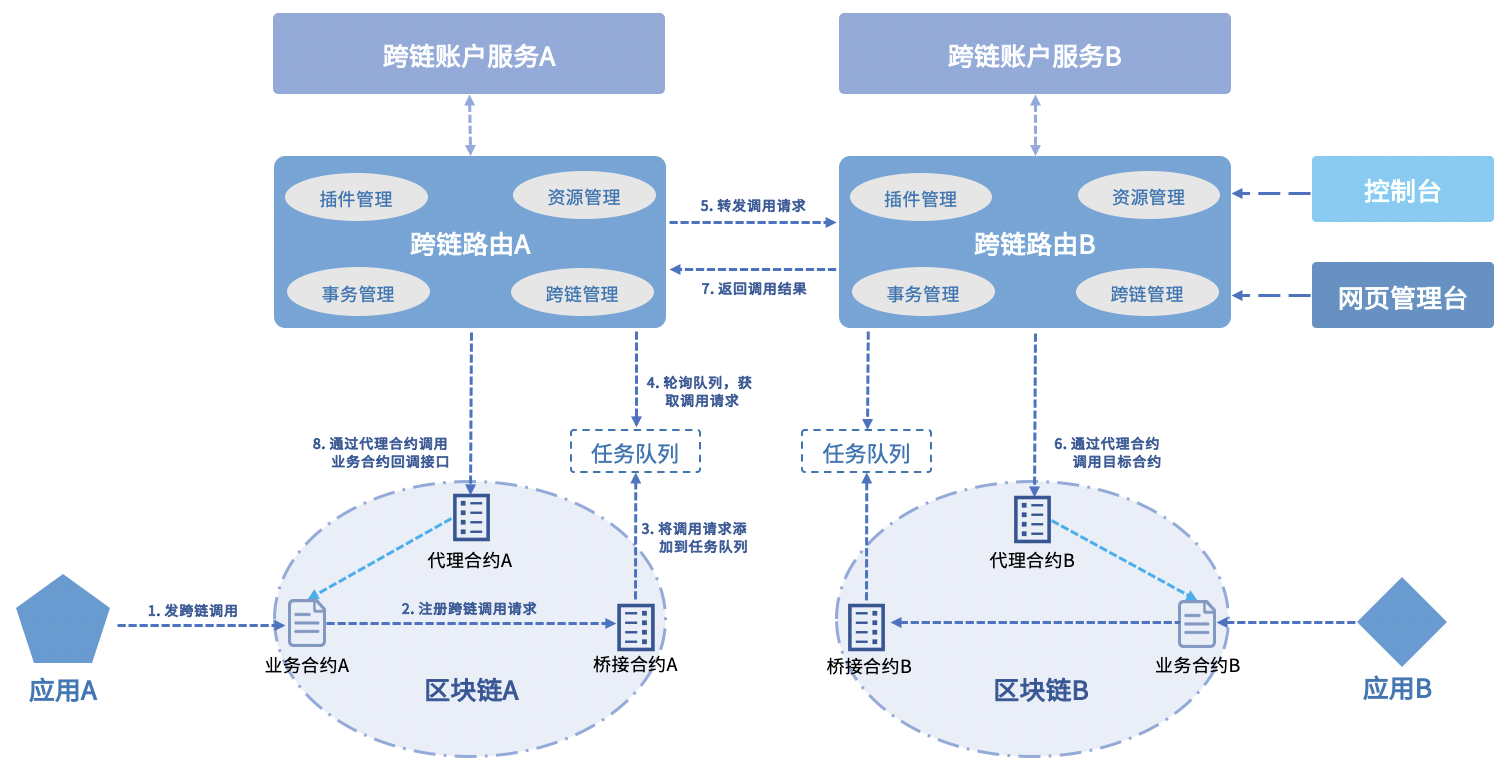
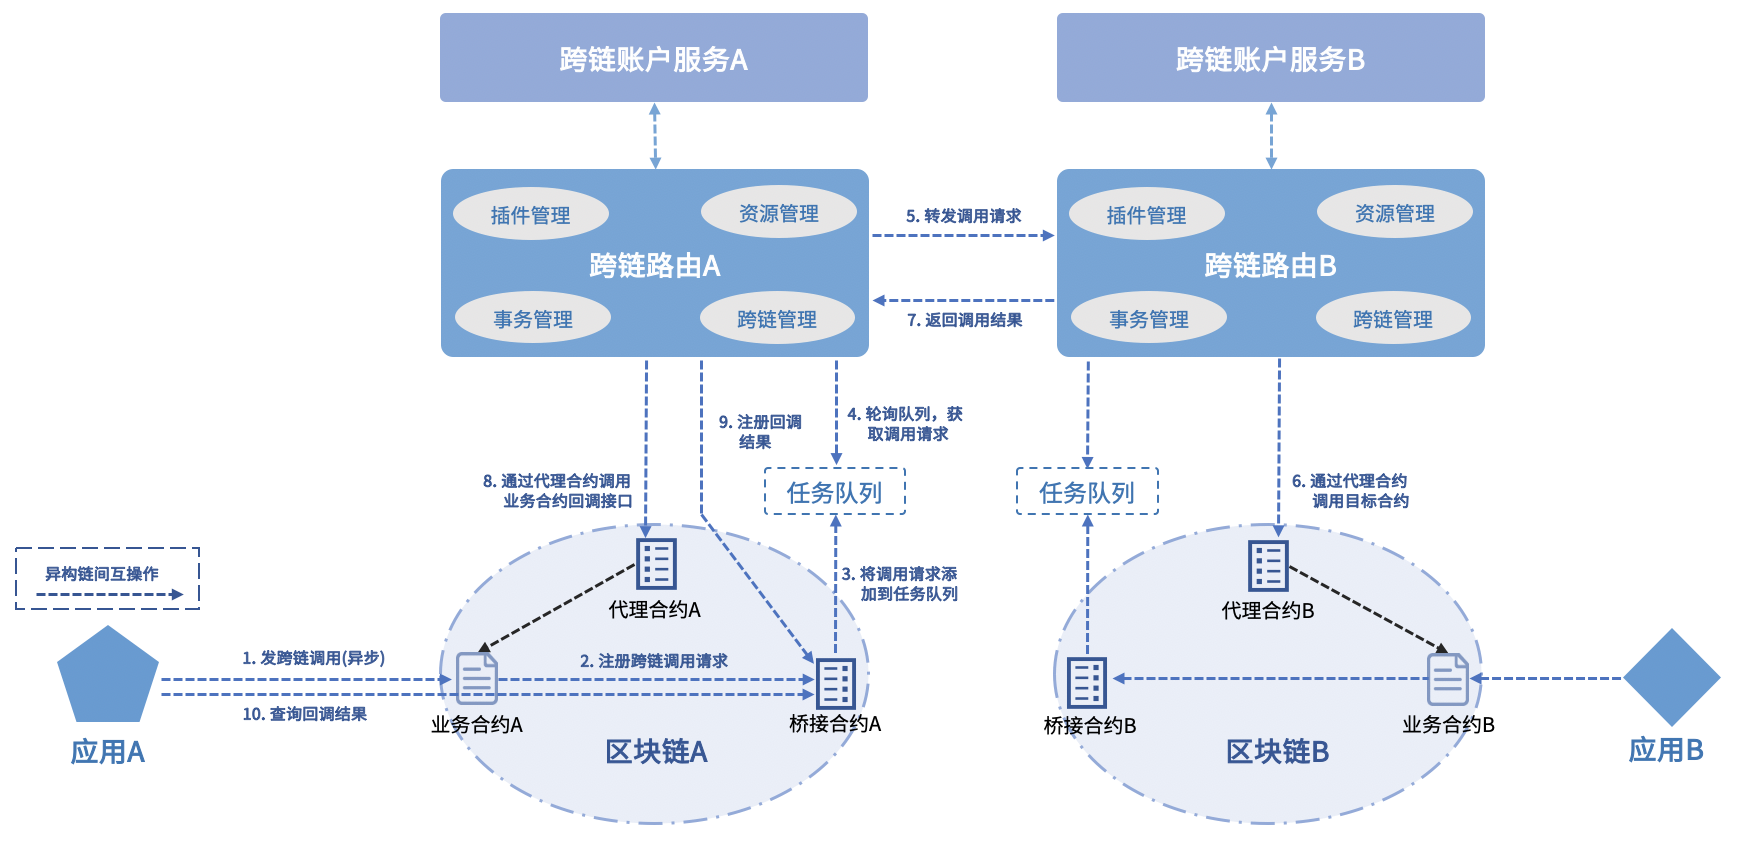
add system contracts doc (#165)

diff --git a/docs/dev/stub.md b/docs/dev/stub.md
@@ -13,10 +13,203 @@
 
 ### Stub开发
 `Stub`开发分为两个部分：
-- 代理合约
+- 系统合约
 - Java插件
 
-#### 代理合约
+#### 系统合约
+
+系统合约包括代理合约(WeCrossProxy)和桥接合约(WeCrossHub)，代理合约是WeCross调用该链其它合约的统一入口，桥接合约用于记录跨链调用请求，以配合跨链路由实现合约跨链调用。
+
+##### 代理合约
+
+功能点：
+
+- 合约调用入口
+- 事务管理
+
+示例：
+
+- [Solidity版](https://github.com/WeBankBlockchain/WeCross-BCOS2-Stub/blob/master/src/main/resources/WeCrossProxy.sol)
+- [Golang版](https://github.com/WeBankBlockchain/WeCross-Fabric1-Stub/blob/master/src/main/resources/chaincode/WeCrossProxy/proxy.go)
+
+以Solidity合约为例，接口列表：
+
+```solidity
+
+/** 读接口，调用业务合约（不需要脏读，即无事务ID，读事务中资源）
+ *
+ *  @param _XATransactionID  事务ID
+ *  @param _path   目标资源路径
+ *  @param _func   调用方法
+ *  @param _args   调用参数
+ *  @return 调用结果
+ */ 
+function constantCall(
+    string memory _XATransactionID, 
+    string memory _path, 
+    string memory _func, 
+    bytes memory _args
+) public returns(bytes memory)
+
+
+/** 写接口，调用业务合约
+ *
+ *  @param _uid  交易ID，用于去重
+ *  @param _XATransactionID  事务ID
+ *  @param _XATransactionSeq  事务序列号
+ *  @param _path   目标资源路径
+ *  @param _func   调用方法
+ *  @param _args   调用参数
+ *  @return 调用结果
+ */ 
+function sendTransaction(
+    string memory _uid, 
+    string memory _XATransactionID, 
+    uint256 _XATransactionSeq, 
+    string memory _path, 
+    string memory _func, 
+    bytes memory _args
+) public returns(bytes memory)
+
+
+/** 开启事务
+ *
+ *  @param _XATransactionID  事务ID
+ *  @param _selfPaths  参与事务的己链资源列表
+ *  @param _otherPaths 参与事务的它链资源列表
+ *  @return 执行结果
+ */ 
+function startXATransaction(
+    string memory _xaTransactionID, 
+    string[] memory _selfPaths, 
+    string[] memory _otherPaths
+) public returns(string memory)
+
+
+/** 提交事务
+ *
+ *  @param _XATransactionID  事务ID
+ *  @return 执行结果
+ */ 
+function commitXATransaction(
+    string memory _xaTransactionID
+) public returns(string memory)
+
+
+/** 回滚事务
+ *
+ *  @param _XATransactionID  事务ID
+ *  @return 执行结果
+ */ 
+function rollbackXATransaction(
+  string memory _xaTransactionID
+) public returns(string memory)
+
+
+/** 获取事务列表
+ *
+ *  @param _index 下标
+ *  @param _size  数量
+ *  @return 事务列表详情，JSON格式
+ */ 
+function listXATransactions(
+    string memory _index, 
+    uint256 _size
+) public view returns (string memory)
+
+
+/** 获取事务详情
+ *
+ *  @param _xaTransactionID 事务ID
+ *  @return 事务详情，JSON格式
+ */ 
+function getXATransaction(
+    string memory _xaTransactionID
+) public view returns(string memory)
+
+```
+
+##### 桥接合约
+
+功能点：
+
+- 注册跨链调用请求
+- 查询跨链调用回调结果
+
+示例：
+
+- [Solidity版](https://github.com/WeBankBlockchain/WeCross-BCOS2-Stub/blob/master/src/main/resources/WeCrossHub.sol)
+- [Golang版](https://github.com/WeBankBlockchain/WeCross-Fabric1-Stub/blob/master/src/main/resources/chaincode/WeCrossHub/hub.go)
+
+以Solidity合约为例，接口列表：
+
+```solidity
+
+/** 供业务合约调用，注册跨链调用请求
+ *
+ *  @param _path     目标链合约的路径
+ *  @param _method   调用方法名
+ *  @param _args     调用参数列表
+ *  @param _callbackPath   回调的合约路径
+ *  @param _callbackMethod 回调方法名
+ *  @return 跨链请求的唯一ID
+ */ 
+function interchainInvoke(
+        string memory _path, 
+        string memory _method, 
+        string[] memory _args, 
+        string memory _callbackPath, 
+        string memory _callbackMethod
+) public returns(string memory uid)
+
+
+/** 供跨链路由调用，获取跨链调用请求
+ *
+ *  @param _num   获取数量
+ *  @return       请求列表，JSON格式
+ */ 
+funct
+function getInterchainRequests(
+    uint256 _num
+) public view returns(string memory)
+
+
+/** 供跨链路由调用，更新跨链任务处理进度
+ *
+ *  @param _index  新下标
+ */ 
+function updateCurrentRequestIndex(uint256 _index) public
+
+
+/** 供跨链路由调用，注册回调结果
+ *
+ *  @param _uid  跨链请求的唯一ID
+ *  @param _tid  事务ID
+ *  @param _seq  事务序列号
+ *  @param _errorCode 回调错误码
+ *  @param _errorMsg  回调错误详情
+ *  @param _result    回调结果
+ */ 
+function registerCallbackResult(
+    string memory _uid, 
+    string memory _tid, 
+    string memory _seq, 
+    string memory _errorCode, 
+    string memory _errorMsg, 
+    string[] memory _result
+) public
+
+
+/** 供用户调用，查询回调的调用结果
+ *
+ *  @param _uid   跨链请求的唯一ID
+ *  @return       字符串数组: [事务ID, 事务Seq, 错误码, 错误消息, 回调调用结果的JSON序列化]
+ */ 
+function selectCallbackResult(
+    string memory _uid
+) public view returns(string[] memory)
+
+```
 
 #### Java插件
 

diff --git a/docs/dev/interchain.md b/docs/dev/interchain.md
@@ -1,4 +1,4 @@
-# 合约跨链调用(Hub)
+# 合约跨链调用(Interchain)
 
 WeCross支持由合约发起跨链调用，即可在源链的智能合约中发起对其它链资源的调用。
 
